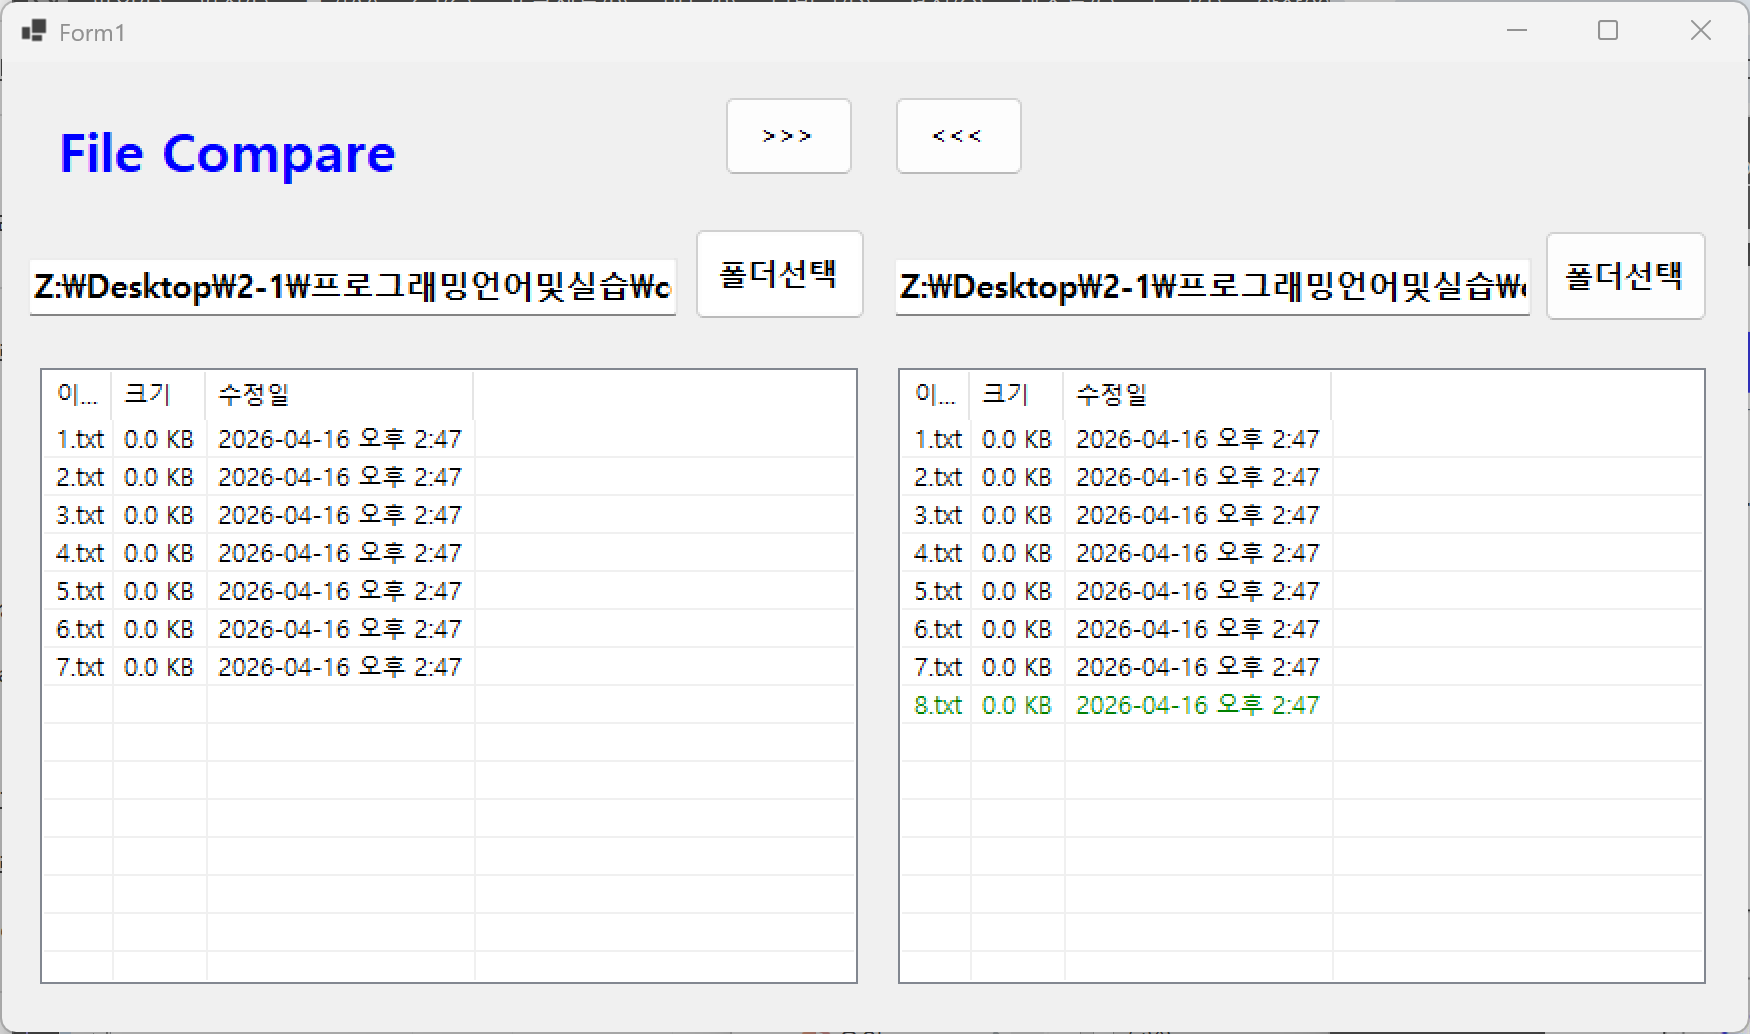
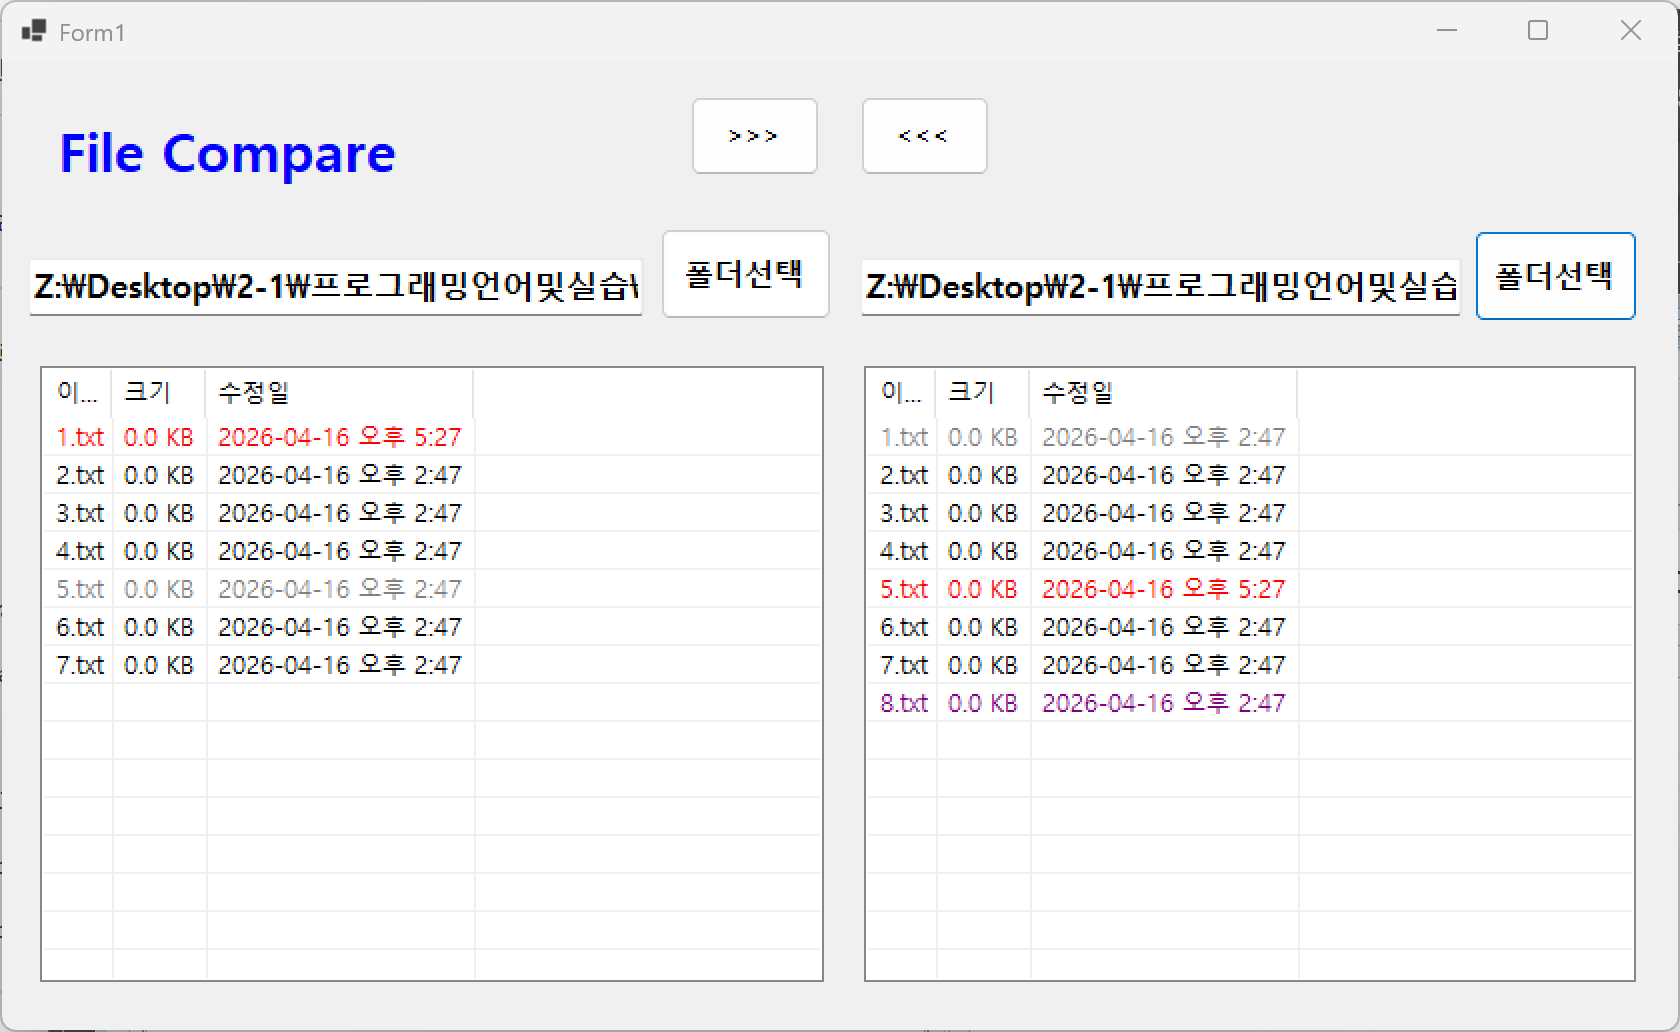
과제3 코딩과 테스트 완료

diff --git a/Form1.cs b/Form1.cs
@@ -59,6 +59,8 @@ namespace FileCompare
 
         private void LoadFiles(string path, bool isLeft)
         {
+            if (string.IsNullOrEmpty(path) || !Directory.Exists(path)) return;
+
             try
             {
                 DirectoryInfo di = new DirectoryInfo(path);
@@ -75,11 +77,11 @@ namespace FileCompare
 
         private void SyncViews()
         {
-            PopulateListView(lvwLeftDir, leftFiles, rightFiles, true);
-            PopulateListView(lvwrightDir, rightFiles, leftFiles, false);
+            PopulateListView(lvwLeftDir, leftFiles, rightFiles);
+            PopulateListView(lvwrightDir, rightFiles, leftFiles);
         }
 
-        private void PopulateListView(ListView lv, Dictionary<string, FileInfo> source, Dictionary<string, FileInfo> target, bool isLeft)
+        private void PopulateListView(ListView lv, Dictionary<string, FileInfo> source, Dictionary<string, FileInfo> target)
         {
             lv.BeginUpdate();
             lv.Items.Clear();
@@ -98,22 +100,26 @@ namespace FileCompare
                         {
                             item.ForeColor = Color.Black;
                         }
-                        else
+                        else if (f.LastWriteTime > otherFile.LastWriteTime)
                         {
                             item.ForeColor = Color.Red;
+                        }
+                        else
+                        {
+                            item.ForeColor = Color.Gray;
                         }
                     }
                     else
                     {
-                        item.ForeColor = isLeft ? Color.Blue : Color.Green;
+                        item.ForeColor = Color.Purple;
                     }
 
                     lv.Items.Add(item);
                 }
 
-                for (int i = 0; i < lv.Columns.Count; i++)
+                foreach (ColumnHeader col in lv.Columns)
                 {
-                    lv.AutoResizeColumn(i, ColumnHeaderAutoResizeStyle.ColumnContent);
+                    col.Width = -2;
                 }
             }
             finally
@@ -129,52 +135,78 @@ namespace FileCompare
 
         private void btnCopyFromLeft_Click(object sender, EventArgs e)
         {
-            if (string.IsNullOrEmpty(txtRightDir.Text)) return;
+            if (string.IsNullOrEmpty(txtLeftDir.Text) || string.IsNullOrEmpty(txtRightDir.Text))
+            {
+                MessageBox.Show($"2번 오류: 경로가 비어있음!\n왼쪽: {txtLeftDir.Text}\n오른쪽: {txtRightDir.Text}");
+                return;
+            }
+
+            // 진단 3: 선택된 파일이 있는지 확인
+            if (lvwLeftDir.SelectedItems.Count == 0)
+            {
+                MessageBox.Show("리스트뷰에서 파일을 선택하지 않았습니다!");
+                return;
+            }
 
             foreach (ListViewItem item in lvwLeftDir.SelectedItems)
             {
                 string fileName = item.Text;
-                if (leftFiles.TryGetValue(fileName, out var srcFile))
+                string srcPath = Path.Combine(txtLeftDir.Text, fileName);
+                string destPath = Path.Combine(txtRightDir.Text, fileName);
+
+                if (CopyFileWithConfirmation(srcPath, destPath))
                 {
-                    string destPath = Path.Combine(txtRightDir.Text, fileName);
-                    CopyFileWithConfirmation(srcFile.FullName, destPath);
+                    LoadFiles(txtRightDir.Text, false);
                 }
             }
-            LoadFiles(txtRightDir.Text, false);
             SyncViews();
         }
 
         private void btnCopyFromRight_Click(object sender, EventArgs e)
         {
-            if (string.IsNullOrEmpty(txtLeftDir.Text)) return;
+            if (string.IsNullOrEmpty(txtLeftDir.Text) || string.IsNullOrEmpty(txtRightDir.Text)) return;
 
             foreach (ListViewItem item in lvwrightDir.SelectedItems)
             {
                 string fileName = item.Text;
-                if (rightFiles.TryGetValue(fileName, out var srcFile))
+                string srcPath = Path.Combine(txtRightDir.Text, fileName);
+                string destPath = Path.Combine(txtLeftDir.Text, fileName);
+
+                if (CopyFileWithConfirmation(srcPath, destPath))
                 {
-                    string destPath = Path.Combine(txtLeftDir.Text, fileName);
-                    CopyFileWithConfirmation(srcFile.FullName, destPath);
+                    LoadFiles(txtLeftDir.Text, true);
                 }
             }
-            LoadFiles(txtLeftDir.Text, true);
             SyncViews();
         }
 
-        private void CopyFileWithConfirmation(string srcPath, string destPath)
+        private bool CopyFileWithConfirmation(string srcPath, string destPath)
         {
             if (File.Exists(destPath))
             {
                 DateTime srcTime = File.GetLastWriteTime(srcPath);
                 DateTime destTime = File.GetLastWriteTime(destPath);
 
-                if (srcTime < destTime)
-                {
-                    var result = MessageBox.Show(Path.GetFileName(destPath) + " 파일이 대상 폴더에서 더 최신입니다. 덮어쓰시겠습니까?", "확인", MessageBoxButtons.YesNo);
-                    if (result == DialogResult.No) return;
-                }
+                string msg = "대상에 동일한 이름의 파일이 이미 있습니다.\n" +
+                     "대상 파일이 더 신규 파일입니다. 덮어쓰시겠습니까?\n\n" +
+                     $"원본: {srcPath}\n" +
+                     $"대상: {destPath}";
+           
+                var result = MessageBox.Show(msg, "덮어쓰기 확인", MessageBoxButtons.YesNo, MessageBoxIcon.Question);
+
+                if (result == DialogResult.No) return false;
             }
-            File.Copy(srcPath, destPath, true);
+
+            try
+            {
+                File.Copy(srcPath, destPath, true);
+                return true;
+            }
+            catch (Exception ex)
+            {
+                MessageBox.Show($"복사 실패: {ex.Message}");
+                return false;
+            }
         }
 
         private void splitContainer1_SplitterMoved(object sender, SplitterEventArgs e) { }
